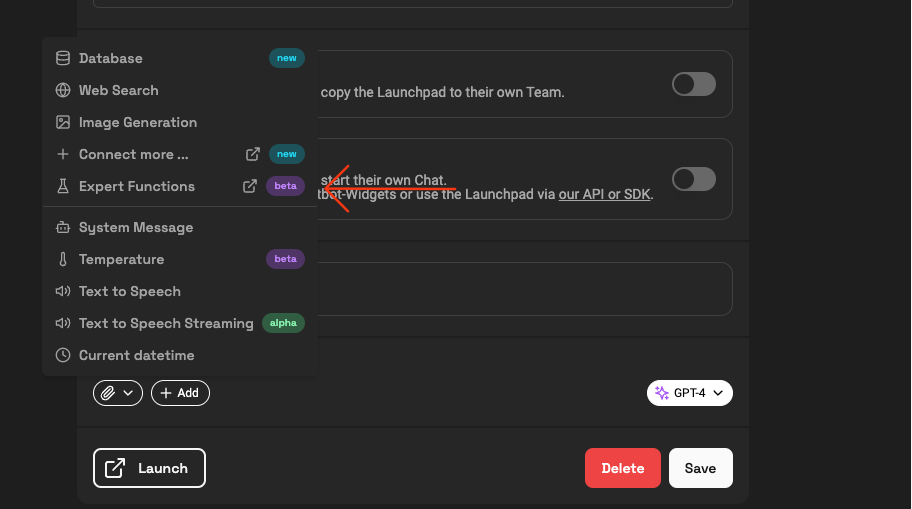
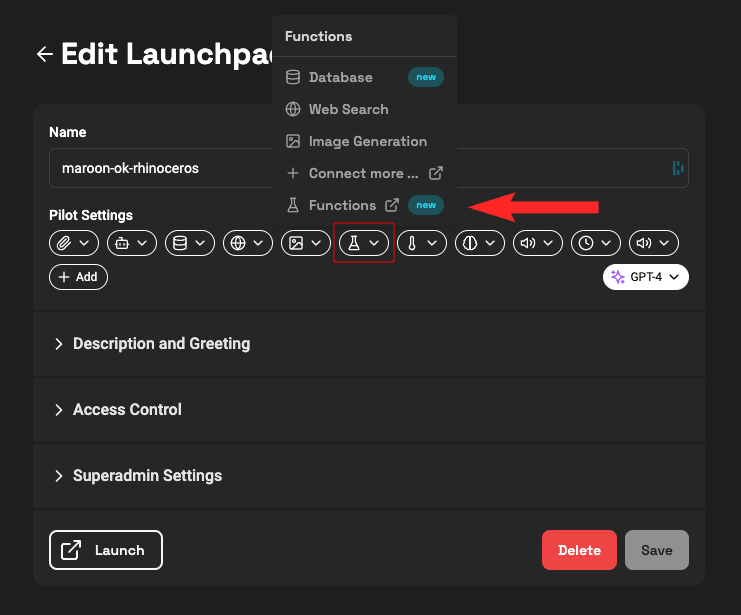
✨

diff --git a/apps/www/src/app/sdk-docs/ApiReference.tsx b/apps/www/src/app/sdk-docs/ApiReference.tsx
@@ -32,6 +32,14 @@ export const ApiReference = () => {
     secondLevelSlug: "#api-reference",
     thirdLevelSlug: "-fetch-teampilot-media",
   })
+  const fetchTeampilotFunctionHandlerId = getIdForTopic({
+    secondLevelSlug: "#api-reference",
+    thirdLevelSlug: "-teampilot-function-handler",
+  })
+  const transformZodToJsonSchema = getIdForTopic({
+    secondLevelSlug: "#api-reference",
+    thirdLevelSlug: "-transform-zod-to-json-schema",
+  })
 
   return (
     <div>
@@ -162,6 +170,33 @@ fetchTeampilotText is a wrapper function around fetchTeampilot. It takes the sam
 ## fetchTeampilotMedia()
 
 fetchTeampilotMedia is a wrapper function around fetchTeampilot. It takes the same parameters as fetchTeampilot, but only returns the first mediaAttachment from the response. The function is useful if you don't want to deal with the complete response object and only want to work with the media.
+`}
+      </ReactMarkdown>
+      <AnchorDiv id={fetchTeampilotFunctionHandlerId} />
+      <IntersectionChecker
+        topic={`/sdk-docs#${fetchTeampilotFunctionHandlerId}`}
+      />
+      <ReactMarkdown remarkPlugins={[remarkGfm]}>
+        {`
+## teampilotFunctionHandler()
+
+teampilotFunctionHandler is a function designed to streamline the handling of HTTP requests for custom function execution. It sets up the necessary GET and POST request handling for you. The function takes an object with the following parameters:
+
+| Name              | Default | Description                                                                                                                                     | Required                  |
+|-------------------|---------|-------------------------------------------------------------------------------------------------------------------------------------------------|---------------------------|
+| functions         |         | An array of TeampilotCustomFunction<any>[] defining the functions available for execution with their input schemas and execute methods. | Yes                       |
+| functionSecret    |         | A secret key that must match in the request headers under 'x-function-secret' for the request to be authorized.                                | No (unless used for auth) |
+| checkAuthorization|         | An asynchronous function that takes a Request object and returns a boolean indicating whether the request is authorized.                  | No                        |
+
+`}
+      </ReactMarkdown>
+      <AnchorDiv id={transformZodToJsonSchema} />
+      <IntersectionChecker topic={`/sdk-docs#${transformZodToJsonSchema}`} />
+      <ReactMarkdown>
+        {`
+## transformZodToJsonSchema()
+
+transformZodToJsonSchema is a function that takes a Zod schema and returns a JSON schema.
 `}
       </ReactMarkdown>
     </div>

diff --git a/apps/www/src/app/topics/CustomFunctions.tsx b/apps/www/src/app/topics/CustomFunctions.tsx
@@ -546,8 +546,8 @@ export default teampilotFunctionHandler({
           alt="Launchpad settings"
         />
         <li>
-          Scroll all the way to the bottom, click the add button and select
-          &quot;Expert Functions&quot;
+          At the top click on the quick select button and select
+          &quot;Functions&quot;
         </li>
         <DocImage
           src="/docs/select-functions-launchpad.png"
@@ -575,9 +575,9 @@ export default teampilotFunctionHandler({
             alt="Start a new chat"
           />
         </li>
-        <li>Click the add button and select &quot;Expert Functions&quot;</li>
+        <li>Click the add button and select &quot;Functions&quot;</li>
         <DocImage
-          src="/docs/select-expert-functions.jpg"
+          src="/docs/select-function-chat.png"
           width={465}
           height={412}
           alt="Select your function"

diff --git a/apps/www/src/utils/navTopics.ts b/apps/www/src/utils/navTopics.ts
@@ -156,14 +156,14 @@ export const TOPICS = [
           },
         ] as const,
       },
-      {
+      /* {
         title: "Media",
         slug: "#media" as const,
       },
       {
         title: "Seo",
         slug: "#seo" as const,
-      },
+      }, */
     ] as const,
   },
   {
